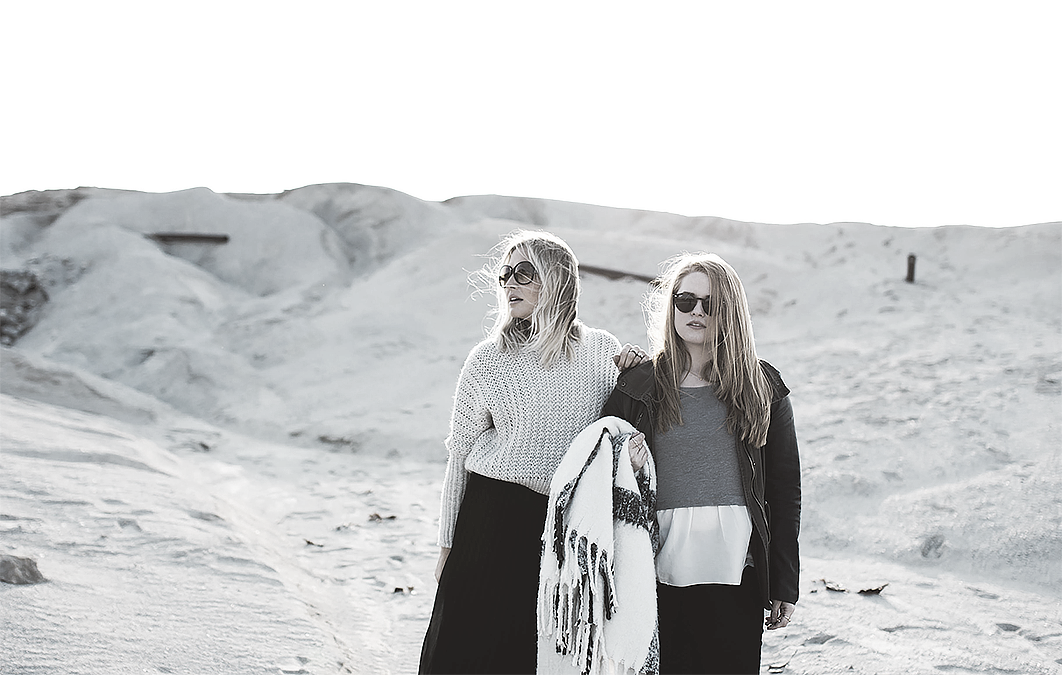
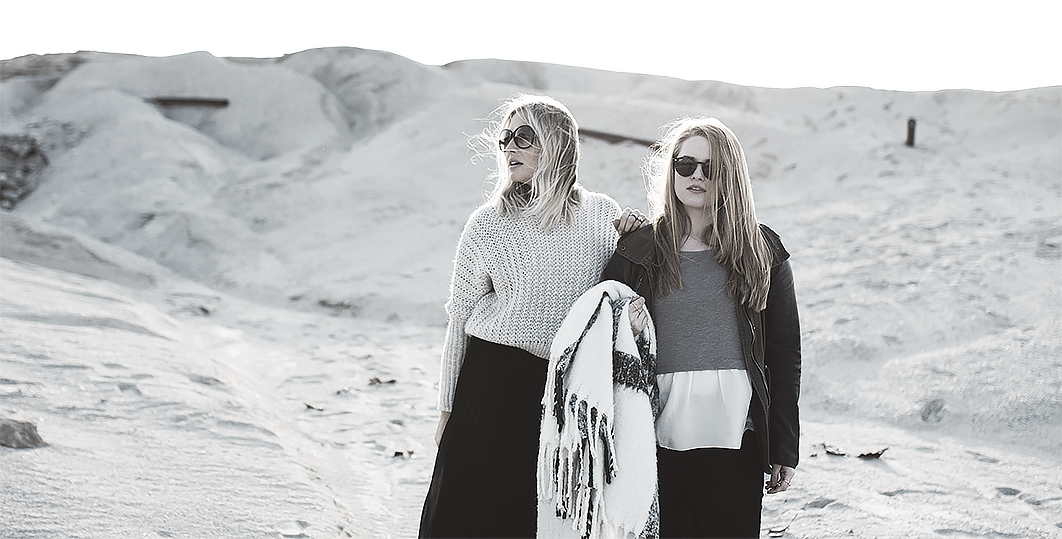
fix tag name

diff --git a/homeWork/src/templates/index.html b/homeWork/src/templates/index.html
@@ -5,62 +5,96 @@
         <title>MINIMO</title>
         <link rel="stylesheet" href="../styles/style.css">
     </head>
-    <body>
-        <div class="container">
-            <div class="header">
-                <div id="minimo" class="headerCell">
-                    MINIMO
-                </div>
-                <div id="lifestyle" class="headerCell">
-                    LIFESTYLE
-                </div>
-                <div id="photodiary" class="headerCell">
-                    PHOTODIARY
-                </div>
-                <div id="music" class="headerCell">
-                    MUSIC
-                </div>
-                <div id="travel" class="headerCell">
-                    TRAVEL
-                </div>
-            </div>
-            <div id="singlePost">
-                <coverImage id="image1" class="header">
-                    <img src="../images/imgTop.png">
-                </coverImage>
-                <infoblock class="headerCell" id="infoblocConteiner">
-                    <div id="infoblocHeader1">PHOTODIARY</div>
-                    <div id="infoblocHeader2">The perfect weekend getaway</div>
-                    <div id="infoblocContent">Lorem ipsum dolor sit amet, consectetur adipisicing elit,
-                        sed do eiusmod tempor incididunt ut labore et dolore magna aliqua. Ut enim ad minim veniam,
-                        quis nostrud exercitation ullamco laboris nisi ut aliquip ex ea commodo consequat. Duis aute
-                        irure dolor in reprehenderit in voluptate velit esse cillum dolore eu fugiat nulla pariatur.
-                        Excepteur sint occaecat cupidatat non proident, sunt
-                    in culpa qui officia deserunt mollit anim id est laborum. Sed ut perspiciatis unde omnis iste
-                    natus error sit voluptatem accusantium doloremque laudantium, totam rem aperiam, eaque ipsa quae
-                    ab illo inventore veritatis et quasi architecto beatae vitae dicta sunt explicabo. Nemo enim ipsam
-                    voluptatem quia voluptas sit aspernatur aut odit aut fugit, sed quia consequuntur magni dolores
-                    eos qui ratione voluptatem sequi nesciunt. Neque porro quisquam est, qui dolorem ipsum quia dolor
-                    sit amet, consectetur, adipisci velit, sed quia non numquam eius modi tempora incidunt ut labore
-                        et dolore magnam aliquam quaerat voluptatem.
-                    </div>
-                </infoblock>
-                <sidebar class="headerCell" id="sidebarContainer">
-                    <aboutTheAutor class="header">
-                        <bio>
-                            <img src="../images/imgRight.png" id="sidebarImage">
-                        </bio>
-                        <aboutMe class="header" id="sidebarHeader">
-                            About me
-                        </aboutMe>
-                        <aboutMeText id="sidebarContent">
-                            Lorem ipsum dolor sit amet, consectetur adipisicing elit, sed do eiusmod
-                            incididunt ut labore et dolore magna aliqua
-                        </aboutMeText>
-                    </aboutTheAutor>
+        <img src="../images/logo.png" class="headerBox">
+        <ul class="headerBox">
+            <li id="lifestyle" class="headerItem">
+                LIFESTYLE
+            </li>
+            <li id="photodiary" class="headerItem">
+                PHOTODIARY
+            </li>
+            <li id="music"  class="headerItem">
+                MUSIC
+            </li>
+            <li  class="headerItem">
+                TRAVEL
+            </li>
+        </ul>
+        <img src="../images/imgTop.png" class="mainImage">
 
-                </sidebar>
+        <div class="contentBox">
+            <p class="contentSubheader">PHOTODIARY</p>
+            <h1 class="contentHeader">The perfect weekend getaway</h1>
+            <p class="contentText">Lorem ipsum dolor sit amet, consectetur adipisicing elit,
+                sed do eiusmod tempor incididunt ut labore et dolore magna aliqua. Ut enim ad minim veniam,
+                quis nostrud exercitation ullamco laboris nisi ut aliquip ex ea commodo consequat. Duis aute
+                irure dolor in reprehenderit in voluptate velit esse cillum dolore eu fugiat nulla pariatur.
+                Excepteur sint occaecat cupidatat non proident, sunt
+                in culpa qui officia deserunt mollit anim id est laborum. Sed ut perspiciatis unde omnis iste
+                natus error sit voluptatem accusantium doloremque laudantium, totam rem aperiam, eaque ipsa quae
+                ab illo inventore veritatis et quasi architecto beatae vitae dicta sunt explicabo. Nemo enim ipsam
+                voluptatem quia voluptas sit aspernatur aut odit aut fugit, sed quia consequuntur magni dolores
+                eos qui ratione voluptatem sequi nesciunt. Neque porro quisquam est, qui dolorem ipsum quia dolor
+                sit amet, consectetur, adipisci velit, sed quia non numquam eius modi tempora incidunt ut labore
+                et dolore magnam aliquam quaerat voluptatem.
+            </p>
+            <img src="../images/imgBottom.png" class="bottomImage">
+            <p class="contentText">Lorem ipsum dolor sit amet, consectetur adipisicing elit, sed do
+                eiusmod tempor incididunt ut labore et dolore magna aliqua. Ut enim ad minim veniam, quis
+                nostrud exercitation ullamco laboris nisi ut aliquip ex ea commodo consequat. Duis aute irure
+                dolor in reprehenderit in voluptate velit esse cillum dolore eu fugiat nulla pariatur.
+                Excepteur sint occaecat cupidatat non proident, sunt in culpa qui officia deserunt mollit
+                anim id est laborum. Sed ut perspiciatis unde omnis iste natus error sit voluptatem
+                accusantium doloremque laudantium, totam rem aperiam, eaque ipsa quae ab illo inventore
+                veritatis et quasi architecto beatae vitae dicta sunt explicabo. Nemo enim ipsam voluptatem
+                quia voluptas sit aspernatur aut odit aut fugit, sed quia consequuntur magni dolores eos qui
+                ratione voluptatem sequi nesciunt. Neque porro quisquam est, qui dolorem ipsum quia dolor sit
+                amet, consectetur, adipisci velit, sed quia non numquam eius modi tempora incidunt ut labore
+                et dolore magnam aliquam quaerat voluptatem.
+            </p>
+        </div>
+        <div class="contentBox" id="sideBar">
+            <img src="../images/imgRight.png">
+            <h1 class="sidebarHeader">
+                About me
+            </h1>
+            <p id="sidebarContainer">
+                Lorem ipsum dolor sit amet, consectetur adipisicing elit, sed do eiusmod
+                incididunt ut labore et dolore magna aliqua
+            </p>
+            <div class="contentSubheader" id="headerSideBar">
+                TOP POSTS
             </div>
+            <ul class="postHeader">
+                <li>
+                    <div class="postHeader">
+                        A day exploring the Alps
+                    </div>
+                    <div class="postComments" >
+                        24 COMMENTS
+                    </div>
+                </li>
+                <li>
+                    <div class="postHeader">
+                        American dream
+                    </div>
+                    <div class="postComments">
+                        19 COMMENTS
+                    </div>
+                </li>
+                <li>
+                    <div class="postHeader">
+                        Could winter days
+                    </div>
+                    <div class="postComments">
+                        15 COMMENTS
+                    </div>
+                </li>
+            </ul>
+        </div>
+        <div class="footer">
+            <div class="footerItem" id="termItem">Terms and condition</div>
+            <div class="footerItem" id="privacyItem">Privacy</div>
         </div>
     </body>
 </html>

diff --git a/homeWork/src/styles/style.css b/homeWork/src/styles/style.css
@@ -1,95 +1,83 @@
-.container {
-    display: table;
-    padding-top: 69px;
-    padding-left: 69px;
-}
-.header {
-    display: table;
+body {
+    margin: 0;
+    padding: 65px 0 0 67px;
+    vertical-align: center;
+    horiz-align: center;
 }
 
-.headerCell {
-    display: table-cell;
+.headerBox {
+    display: inline-block;
+    margin: 0;
     vertical-align: middle;
 }
 
-#minimo {
-    width: 119px;
-    height: 25px;
-    font-size: 30px;
-    letter-spacing: 6px;
+.headerItem {
+    display: inline-block;
+    font-size: 14px;
     line-height: 24px;
-    color: #000000;
-    font-family: "Inconsolata";
-    text-align: left;
+    color: #626262;
+    font-family: "Arial", serif;
+    text-align: center;
 }
 
 #lifestyle {
-    padding-left: 370px;
-    width: 73px;
-    height: 10px;
-    font-size: 14px;
-    line-height: 24px;
-    color: #626262;
-    font-family: "Arial";
-    text-align: center;
+    padding-left: 318px;
+    padding-right: 114px;
 }
 
 #photodiary {
-    padding-left: 118px;
-    width: 92px;
-    height: 10px;
-    font-size: 14px;
-    line-height: 24px;
-    color: #626262;
-    font-family: "Arial";
-    text-align: center;
+    padding-right: 96px;
 }
 
 #music {
-    padding-left: 100px;
-    width: 45px;
-    height: 10px;
-    font-size: 14px;
-    line-height: 24px;
-    color: #626262;
-    font-family: "Arial";
-    text-align: center;
-}
-#travel {
-    padding-left: 93px;
-    width: 54px;
-    height: 10px;
-    font-size: 14px;
-    line-height: 24px;
-    color: #626262;
-    font-family: "Arial";
-    text-align: center;
+    padding-right: 89px;
 }
 
-
-#image1 {
+.mainImage {
+    padding-top: 40px;
+    padding-left: 2px;
     width: 1062px;
-    height: 509px;
-    background-color: #f1f1f1;
+    height: 541px;
 }
 
-#sidebarContainer {
-    width: 284px;
+.contentBox {
+    display: inline-block;
+    vertical-align: top;
+    padding: 76px 0 0 84px;
+    width: 650px;
+    font-family: Arial, serif;
 }
 
-#sidebarImage {
-    width: 272px;
-    height: 177px;
-    background-color: #b4ac9e;
+#sideBar {
+    padding: 90px 0 0 50px;
+    width: 300px;
+    font-family: "Arial", serif;
 }
 
-#sidebarHeader {
-    width: 278px;
-    height: 18px;
+.contentSubheader {
+    font-size: 14px;
+    color: #b4ad9e;
+}
+
+.contentHeader {
+    padding-top: 0px;
+    font-size: 30px;
+}
+
+.contentText {
+    padding-top: 10px;
+    font-size: 14px;
+    line-height: 24px;
+}
+
+.sidebarHeader {
+    padding-top: 10px;
+    margin: 0;
     font-size: 24px;
-    line-height: 20px;
-    color: #626262;
-    font-family: "Arial";
+}
+
+#headerSideBar {
+    padding: 17px 0 10px 0;
 }
 
 #sidebarContainer {
@@ -97,34 +85,48 @@
     height: 58px;
     font-size: 12px;
     line-height: 20px;
-    color: #626262;
-    font-family: "Arial";
 }
 
-#infoblocConteiner {
-    padding-top: 96px;
-    padding-left: 80px;
-    width: 700px;
-    height: 150px;
+.postHeader {
+    font-weight: bold;
+    padding: 3px 0 10px 15px;
+    list-style: disc;
 }
 
-#infoblocHeader1 {
+.postComments {
     font-size: 14px;
+    padding: 0 20px 22px 15px;
     color: #b4ad9e;
-    font-family: "Arial";
 }
 
-#infoblocHeader2 {
-    padding-top: 28px;
-    font-size: 30px;
-    color: #626262;
-    font-family: "Arial";
+.bottomImage {
+    width: 661px;
+    height: 497px;
 }
 
-#infoblocContent {
-    padding-top: 35px;
-    font-size: 14px;
-    line-height: 24px;
-    color: #626262;
-    font-family: "Arial";
+
+.blockFoot {
+    margin: 0;
+    padding: 0;
+}
+
+.footer {
+    margin-top: 300px;
+    padding-top: 40px;
+    height: 40px;
+    width: 78%;
+    background-color: #f0f0f0;
+}
+
+.footerItem {
+    display: inline-block;
+    vertical-align: middle;
+}
+
+#termItem {
+    padding-left: 80px;
+}
+
+#privacyItem {
+    padding-left: 20px;
 }
